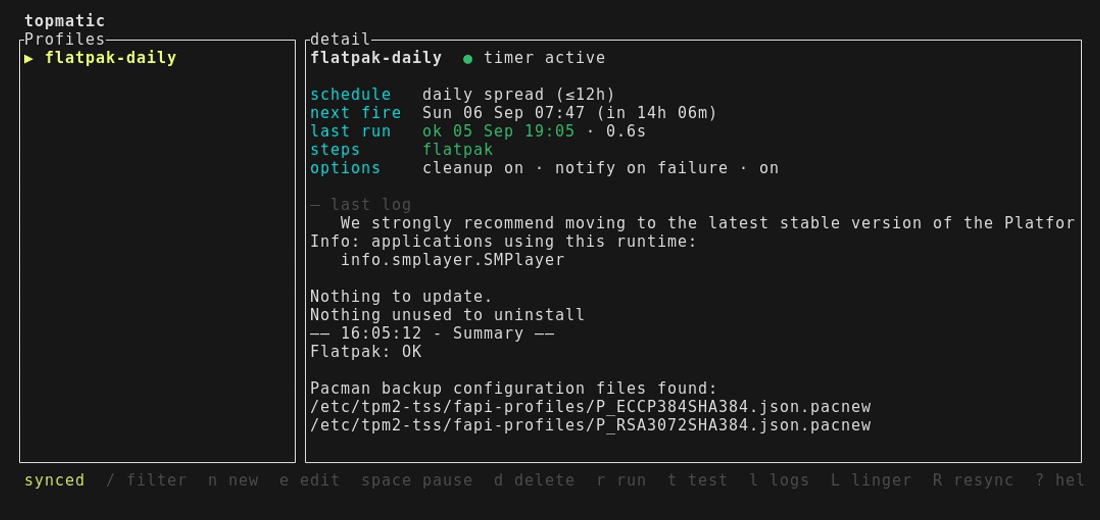
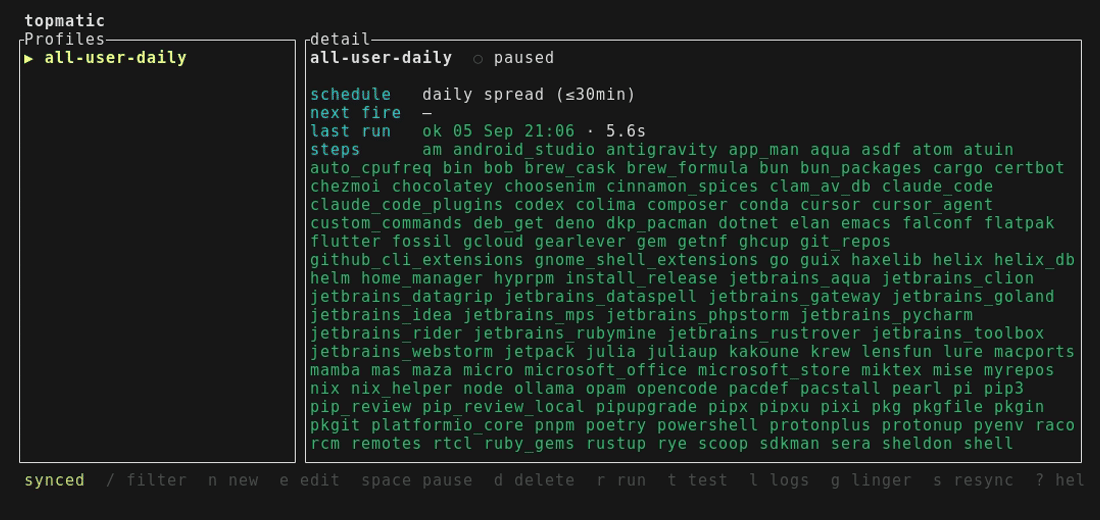
Wrap detail pane lines to the available width

diff --git a/src/tui/dashboard.rs b/src/tui/dashboard.rs
@@ -201,7 +201,9 @@ pub fn render(app: &App, frame: &mut Frame, area: Rect) -> PaneAreas {
         }
         None => vec![Line::from("no profile selected")],
     };
-    let paragraph = Paragraph::new(detail).block(Block::bordered().title("detail"));
+    let paragraph = Paragraph::new(detail)
+        .block(Block::bordered().title("detail"))
+        .wrap(ratatui::widgets::Wrap { trim: true });
     frame.render_widget(paragraph, detail_area);
 
     PaneAreas { list: list_area }
